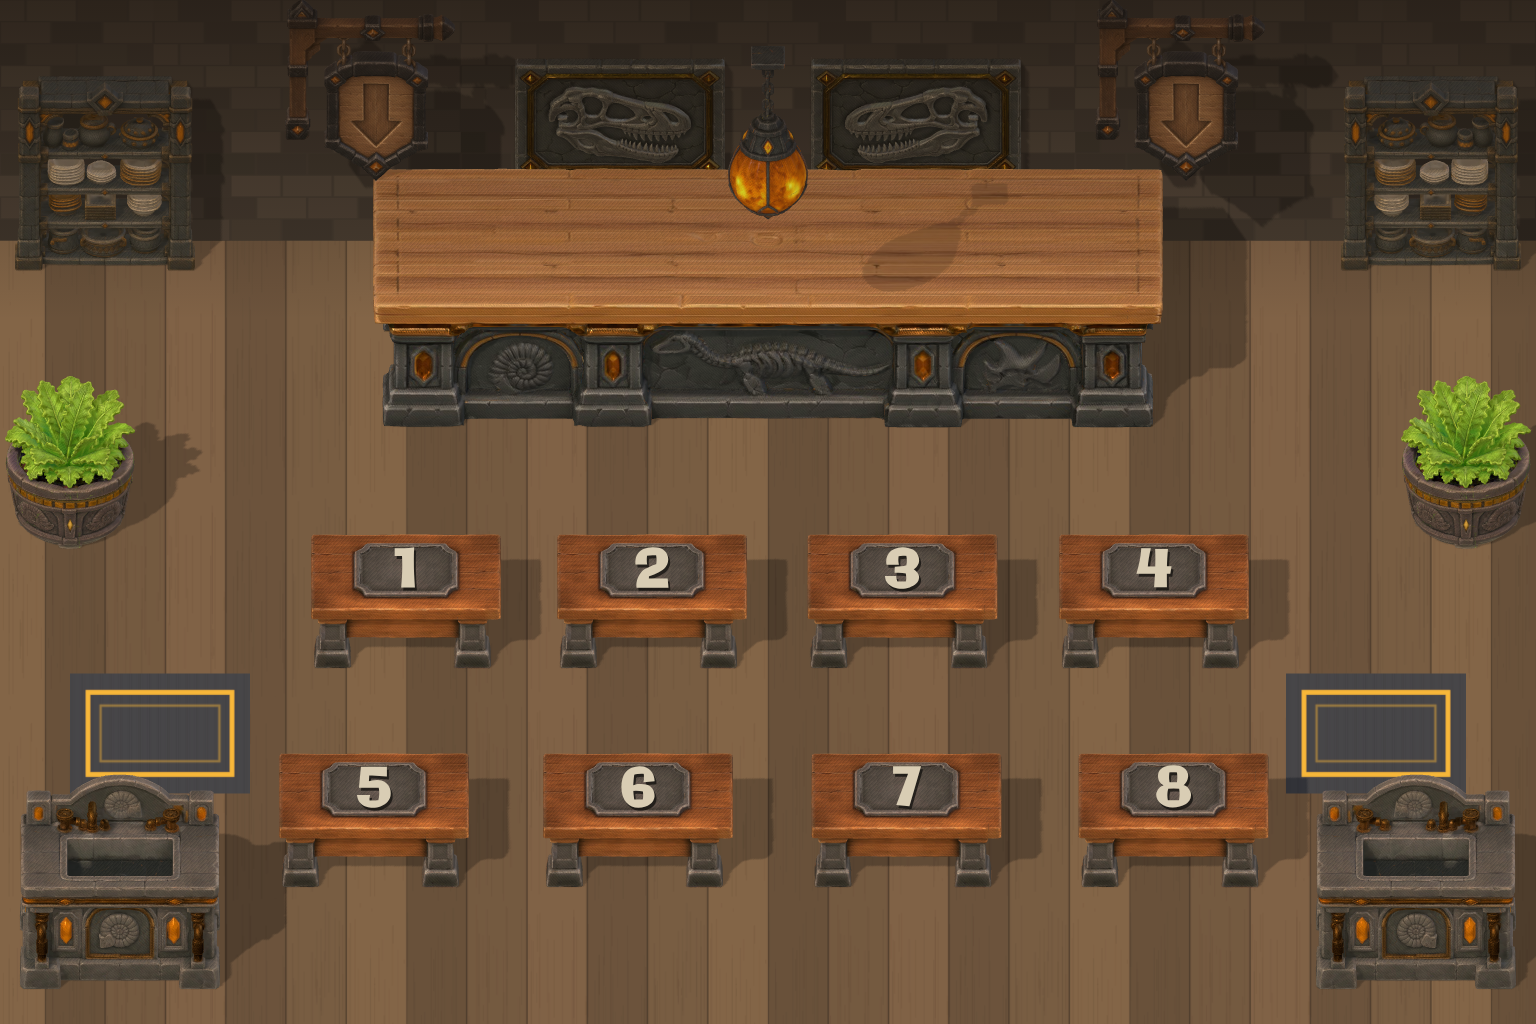
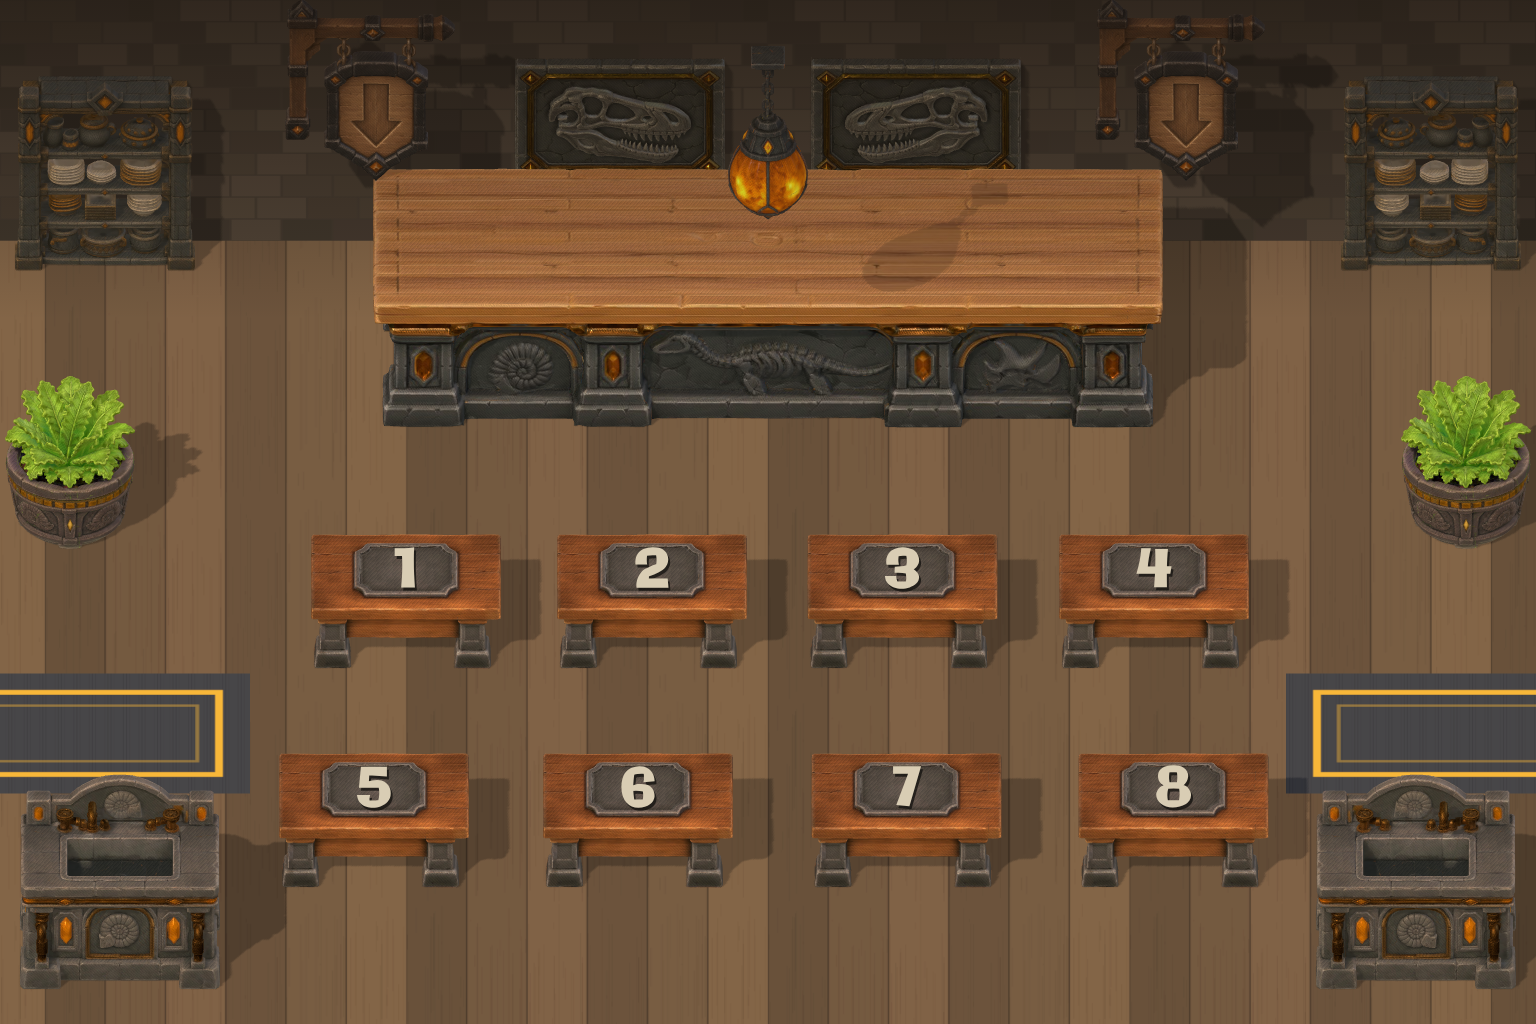
Run the rugs off the edge of the frame, and correct a wrong root cause
Rone wanted to see the rugs bleed off-screen rather than stop with a
bordered cap in frame. Extended each one's outer (wall-side) end from
70/1466 to -60/1596 -- comfortably past art x 0/1536, the camera's own
frustum edge -- so the visible portion is cropped by the frame rather
than by the rug's own border. Inward end (250/1286, short of the front
row's own left edge) is unchanged.

Verified this doesn't clip badly by checking what's actually at the
frame edge first, which surfaced a real error in this file's own
history: the "Just inside the frame... 0.92 leaves about 60 art px of
wall showing" comment above the back-wall code describes side-wall
geometry that does not exist -- grep for scene.add across the whole
file finds only the floor and the back wall, and the very next
paragraph already says so ("No side walls, and this is geometry rather
than taste"). The first paragraph was a stale leftover from a version
that had them; the second, correct one was written later and left the
first standing. Deleted the stale one.

That also means the dish-return fix two commits back mis-stated its own
cause: it said 60 put the prop "behind the room's side wall plane,"
which cannot be true since no such plane exists. Re-tested dish-return
alone at x=60 after this render-off-the-edge pass proved the frame edge
itself renders clean -- it rendered fine, no artifact, so whatever
actually produced the original dark patch was something else. Left that
[…]

diff --git a/index.html b/index.html
@@ -623,12 +623,16 @@
         // busY moved 760->900 with the dish-return prop in render_room.mjs's
         // LAYOUT, which traded places with the floor-inlay medallion, then
         // 900->950. busXL/R went 115/1425 -> 60/1476 (tucking into the
-        // corner; too far -- 60 sat behind the room's side wall, art x ~61,
-        // see render_room.mjs) -> 95/1441 (clear of the wall but still tight
-        // at a glance) -> 120/1416, 58 art px clear. Both boards carry
-        // busXL/busXR rather than BUS_STATIONS hardcoding them, since this
-        // board's dish-return moved and the painted one's has not -- one
-        // shared constant would have forced them to match.
+        // corner; too far -- 60 produced a dark clipped-looking patch, fixed
+        // by pulling back out. render_room.mjs's own LAYOUT comment has the
+        // fuller note and a correction: the patch was filed at the time as
+        // the prop sitting behind a side wall, and there is no side wall in
+        // the scene, so that explanation didn't hold up under a re-check) ->
+        // 95/1441 (fixed it, but read as tight at a glance) -> 120/1416, 58
+        // art px clear. Both boards carry busXL/busXR rather than
+        // BUS_STATIONS hardcoding them, since this board's dish-return moved
+        // and the painted one's has not -- one shared constant would have
+        // forced them to match.
         passY: 480, busY: 950, busXL: 120, busXR: 1416, padAtX: true, ticketBase: 315 }
     // Measured off the painting, and out of spec on every band by 45-115px --
     // see DINING-ROOM-3D-RUNBOOK.md section 1. Kept until the swap.
